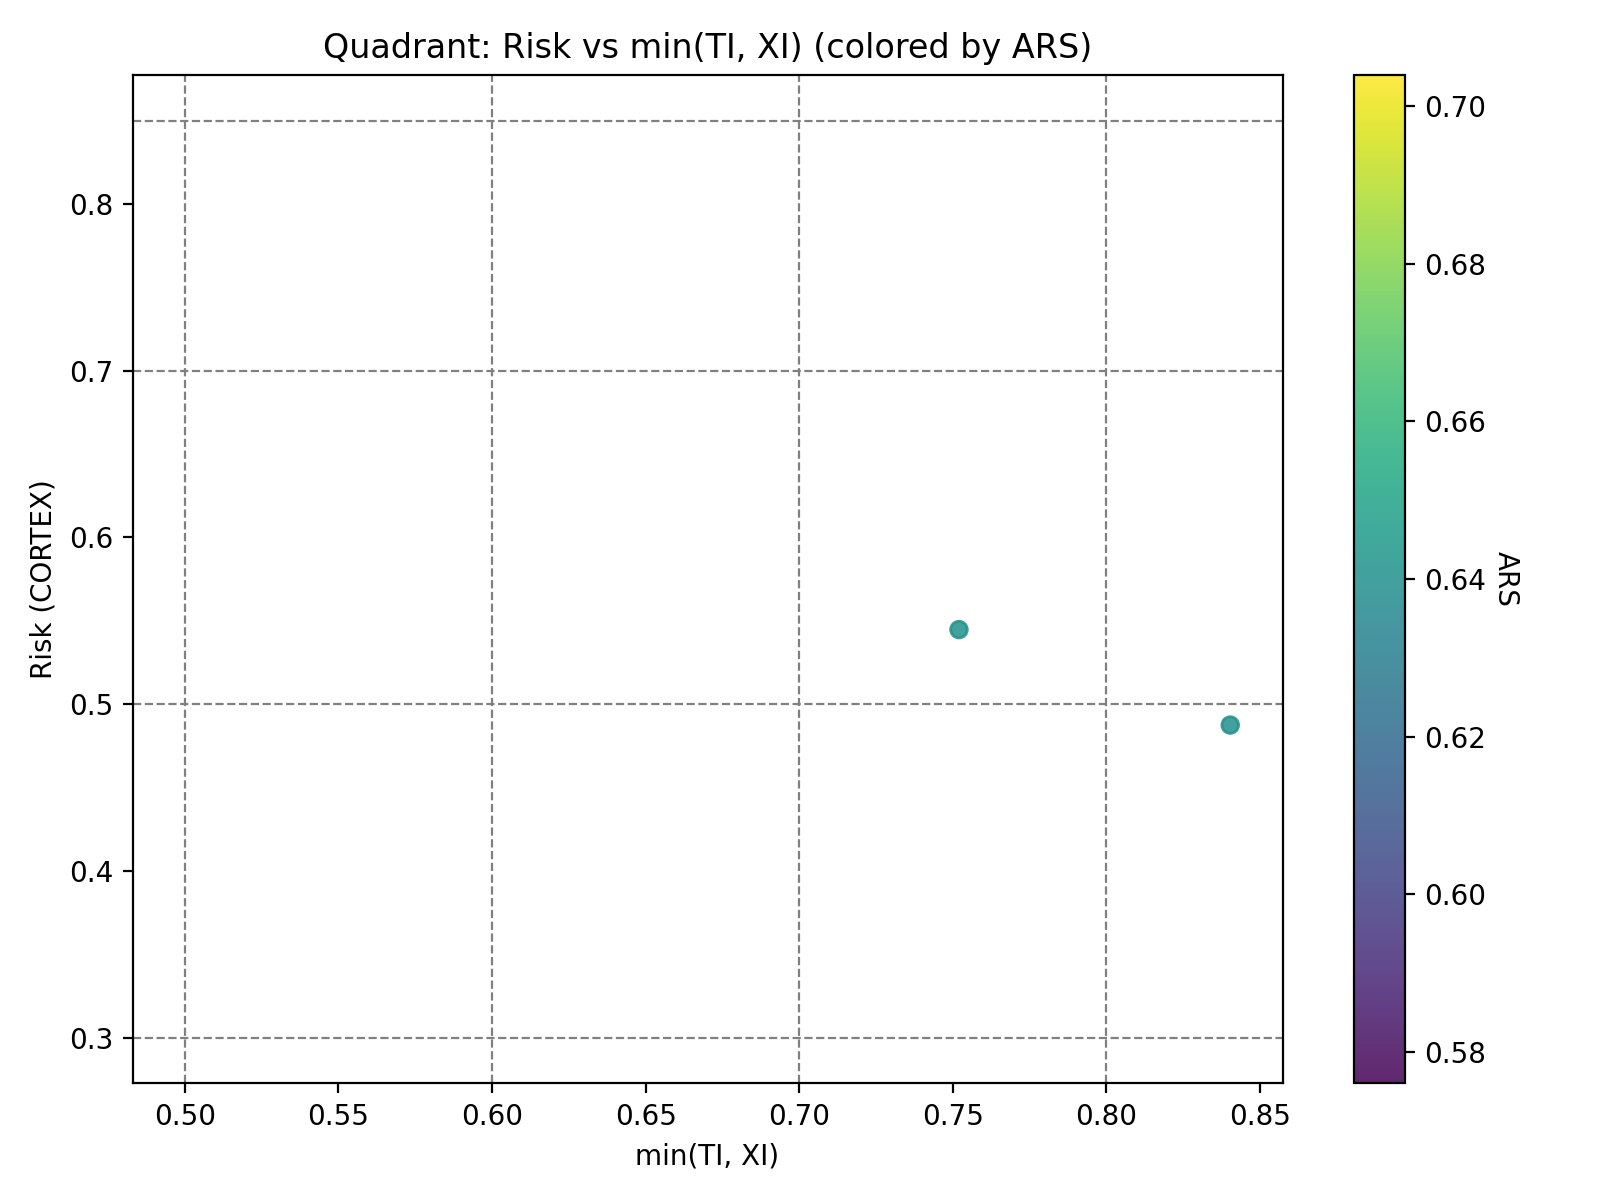
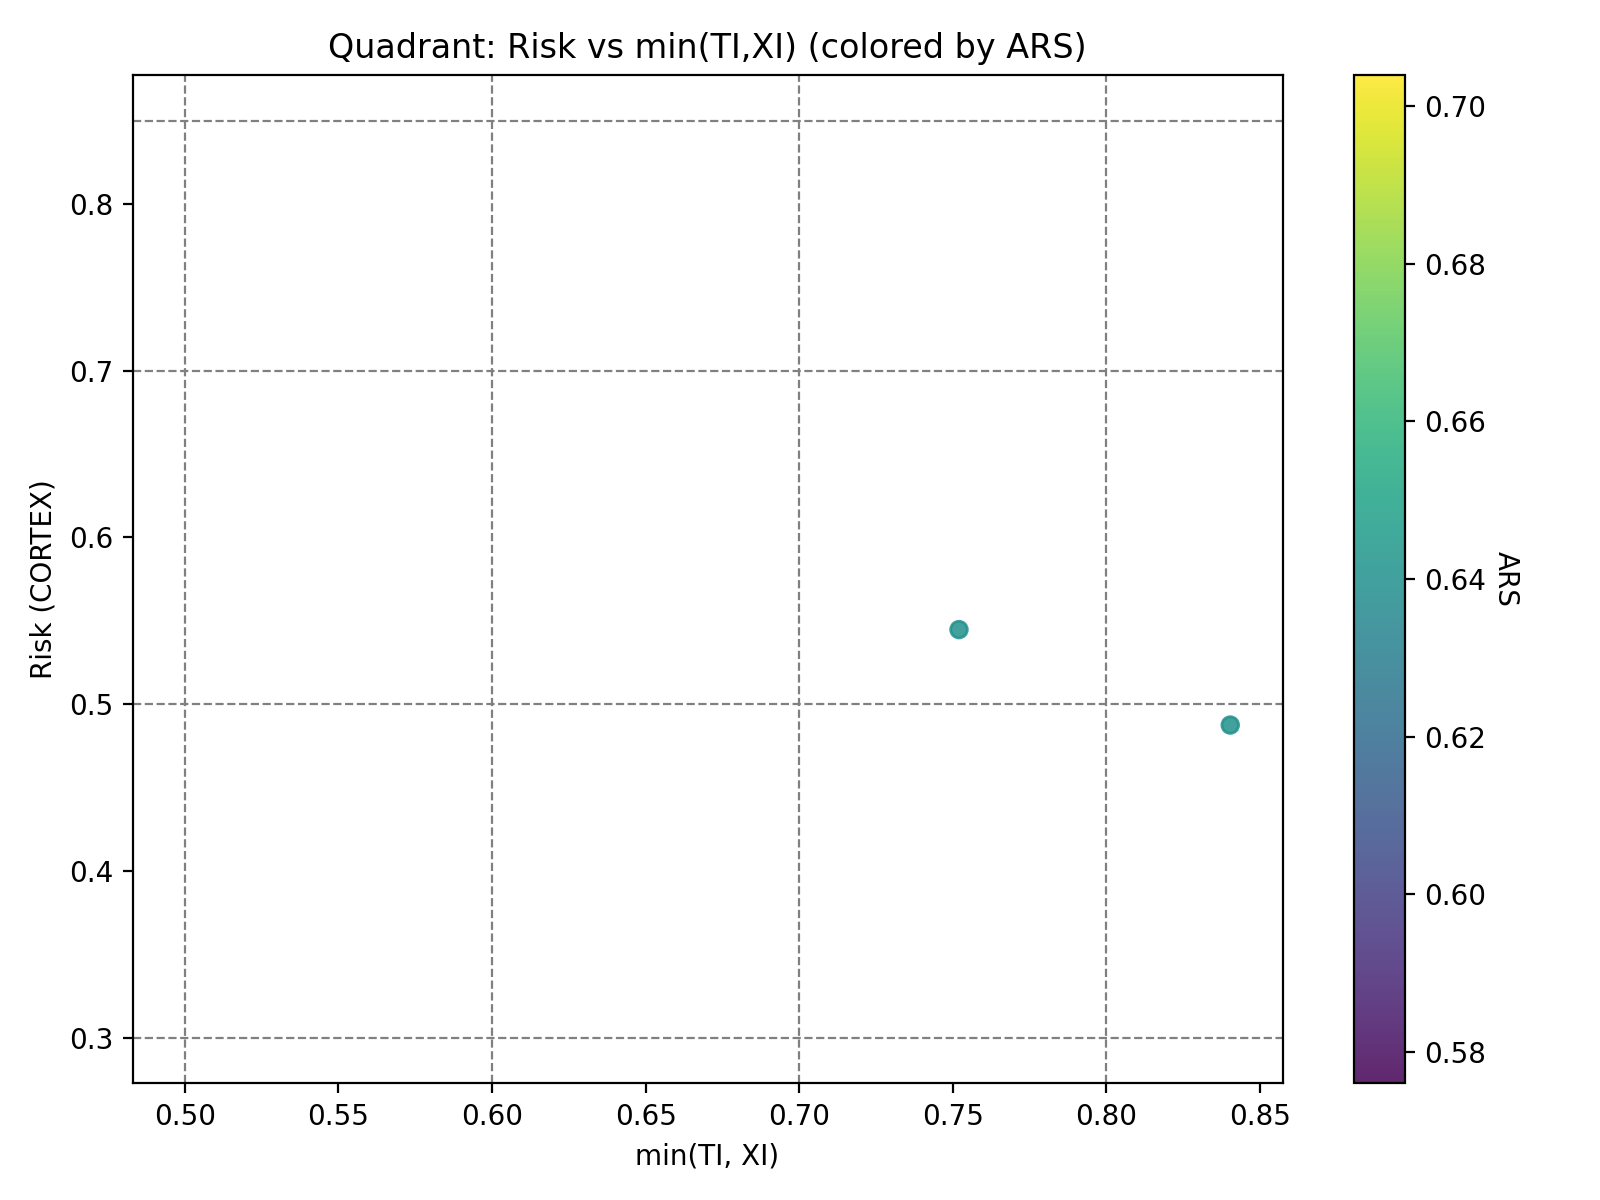
Add generated figures (quadrant, ARS hist, blockers, radar) and figure script

Changed region(s): [[0.1875, 0.0308, 0.6875, 0.0617]]

diff --git a/scripts/gen_figures.py b/scripts/gen_figures.py
@@ -1,126 +1,77 @@
 
-# scripts/gen_figures.py
-# Generate quadrant, ARS histogram, blockers bar, and per-scenario radar PNGs from a summary CSV.
-# Usage:
-#   python scripts/gen_figures.py --csv reports/audit_results/summary_strict.csv --out docs/figures
-
 import os, argparse, pandas as pd, numpy as np
+import matplotlib
+matplotlib.use('Agg')
 import matplotlib.pyplot as plt
 
 def ensure_dir(p): os.makedirs(p, exist_ok=True)
-
-def load_csv(csv_path: str) -> pd.DataFrame:
-    df = pd.read_csv(csv_path)
-    # Ensure required columns exist; fill safe defaults
-    defaults_float = {"TI":0.0, "XI":0.0, "ARS":0.0, "R":0.0}
-    defaults_str   = {"decision":"", "recommendation":"", "policy_blockers":"", "validator_blockers":"", "scenario":""}
-    for k,v in defaults_float.items():
-        if k not in df.columns: df[k] = v
-        df[k] = pd.to_numeric(df[k], errors="coerce").fillna(0.0)
-    for k,v in defaults_str.items():
-        if k not in df.columns: df[k] = v
-        df[k] = df[k].fillna("")
-    # Derived: t_bottleneck = min(TI, XI)
-    df["t_bottleneck"] = np.minimum(df["TI"], df["XI"])
-    # Risk may be absent; if so derive a proxy from ARS and t_bottleneck (not ideal, but keeps figs working)
-    if "risk" not in df.columns:
-        # ARS ≈ sqrt(risk * min(TI,XI))  → risk ≈ (ARS^2)/min(TI,XI)  (clip to [0,1], guard div by zero)
-        tb = df["t_bottleneck"].replace(0, np.nan)
-        risk_est = (df["ARS"]**2) / tb
-        risk_est = risk_est.replace([np.inf, -np.inf], np.nan).fillna(0.0).clip(0,1)
-        df["risk"] = risk_est
+def load_csv(p):
+    df = pd.read_csv(p)
+    for c in ['TI','XI','ARS','R']: 
+        if c not in df: df[c]=0.0
+        df[c] = pd.to_numeric(df[c], errors='coerce').fillna(0.0)
+    for c in ['decision','recommendation','policy_blockers','validator_blockers','scenario','domain']:
+        if c not in df: df[c]=''
+        df[c]=df[c].fillna('')
+    df['t_bottleneck'] = np.minimum(df['TI'], df['XI'])
+    if 'risk' not in df:
+        tb = df['t_bottleneck'].replace(0,np.nan)
+        rk = (df['ARS']**2)/tb
+        df['risk'] = rk.replace([np.inf,-np.inf], np.nan).fillna(0.0).clip(0,1)
     else:
-        df["risk"] = pd.to_numeric(df["risk"], errors="coerce").fillna(0.0).clip(0,1)
-    # Blockers combined for convenience
-    if "policy_blockers" in df.columns and "validator_blockers" in df.columns:
-        df["all_blockers"] = df["policy_blockers"].fillna("").astype(str) + ";" + df["validator_blockers"].fillna("").astype(str)
+        df['risk'] = pd.to_numeric(df['risk'], errors='coerce').fillna(0.0).clip(0,1)
+    if 'policy_blockers' in df and 'validator_blockers' in df:
+        df['all_blockers'] = df['policy_blockers'].astype(str).fillna('') + ';' + df['validator_blockers'].astype(str).fillna('')
     else:
-        df["all_blockers"] = df.get("policy_blockers","").astype(str)
-    # Scenario label fallback
-    if not df["scenario"].any():
-        df["scenario"] = [f"scenario_{i+1}" for i in range(len(df))]
+        df['all_blockers'] = df.get('policy_blockers','').astype(str)
+    if not df['scenario'].any(): df['scenario']=[f'scenario_{i+1}' for i in range(len(df))]
     return df
 
-def fig_quadrant(df: pd.DataFrame, outdir: str):
-    ensure_dir(outdir)
+def quadrant(df,out):
     plt.figure(figsize=(8,6))
-    sc = plt.scatter(df["t_bottleneck"], df["risk"], c=df["ARS"], alpha=0.85)
-    cbar = plt.colorbar(sc); cbar.set_label("ARS", rotation=270, labelpad=12)
-    plt.xlabel("min(TI, XI)")
-    plt.ylabel("Risk (CORTEX)")
-    # Vertical lines for TI/XI thresholds lattice (informative grid)
-    for x in [0.50, 0.60, 0.70, 0.80]: plt.axvline(x, ls="--", lw=0.8, color="gray")
-    # Horizontal lines for CORTEX tiers
-    for y in [0.30, 0.50, 0.70, 0.85]: plt.axhline(y, ls="--", lw=0.8, color="gray")
-    plt.title("Quadrant: Risk vs min(TI, XI) (colored by ARS)")
-    plt.tight_layout()
-    plt.savefig(os.path.join(outdir, "quadrant.png"), dpi=200)
-    plt.close()
+    sc=plt.scatter(df['t_bottleneck'], df['risk'], c=df['ARS'], alpha=0.85)
+    cb=plt.colorbar(sc); cb.set_label('ARS', rotation=270, labelpad=12)
+    plt.xlabel('min(TI, XI)'); plt.ylabel('Risk (CORTEX)')
+    for x in [0.50,0.60,0.70,0.80]: plt.axvline(x, ls='--', lw=0.8, color='gray')
+    for y in [0.30,0.50,0.70,0.85]: plt.axhline(y, ls='--', lw=0.8, color='gray')
+    plt.title('Quadrant: Risk vs min(TI,XI) (colored by ARS)')
+    plt.tight_layout(); plt.savefig(os.path.join(out,'quadrant.png'), dpi=200); plt.close()
 
-def fig_hist_ars(df: pd.DataFrame, outdir: str):
-    ensure_dir(outdir)
+def hist_ars(df,out):
     plt.figure(figsize=(8,4))
-    plt.hist(df["ARS"], bins=20, alpha=0.9)
-    plt.xlabel("ARS")
-    plt.ylabel("Count")
-    plt.title("ARS Distribution")
-    plt.tight_layout()
-    plt.savefig(os.path.join(outdir, "ars_hist.png"), dpi=200)
-    plt.close()
+    plt.hist(df['ARS'], bins=20, alpha=0.9)
+    plt.xlabel('ARS'); plt.ylabel('Count'); plt.title('ARS Distribution')
+    plt.tight_layout(); plt.savefig(os.path.join(out,'ars_hist.png'), dpi=200); plt.close()
 
-def fig_blockers(df: pd.DataFrame, outdir: str, topn: int = 15):
-    ensure_dir(outdir)
-    counts = {}
-    for s in df["all_blockers"].fillna("").tolist():
-        items = [x for x in s.split(";") if x]
-        for it in items:
-            counts[it] = counts.get(it, 0) + 1
-    if not counts:
-        return
-    items = sorted(counts.items(), key=lambda kv: kv[1], reverse=True)[:topn]
-    labels = [k for k,_ in items]; vals = [v for _,v in items]
+def blockers(df,out):
+    counts={}
+    for s in df['all_blockers'].fillna('').tolist():
+        for it in [x for x in s.split(';') if x]: counts[it]=counts.get(it,0)+1
+    if not counts: return
+    items=sorted(counts.items(), key=lambda kv: kv[1], reverse=True)[:15]
+    labels=[k for k,_ in items]; vals=[v for _,v in items]
     plt.figure(figsize=(10,4))
-    plt.bar(labels, vals)
-    plt.xticks(rotation=45, ha="right")
-    plt.ylabel("Count")
-    plt.title("Top Blockers")
-    plt.tight_layout()
-    plt.savefig(os.path.join(outdir, "blockers.png"), dpi=200)
-    plt.close()
+    plt.bar(labels, vals); plt.xticks(rotation=45, ha='right'); plt.ylabel('Count'); plt.title('Top Blockers')
+    plt.tight_layout(); plt.savefig(os.path.join(out,'blockers.png'), dpi=200); plt.close()
 
-def fig_radar(df: pd.DataFrame, outdir: str, topn: int = 6):
-    ensure_dir(outdir)
-    # pick top-N by risk as illustrative
-    sub = df.sort_values("risk", ascending=False).head(topn)
-    for _, row in sub.iterrows():
-        vals = [row["TI"], row["XI"], row["ARS"]]
-        labels = ["TI","XI","ARS"]
-        angles = np.linspace(0, 2*np.pi, len(labels), endpoint=False).tolist()
-        vals += vals[:1]; angles += angles[:1]
-        plt.figure(figsize=(5,5))
-        ax = plt.subplot(111, polar=True)
-        ax.plot(angles, vals, linewidth=2)
-        ax.fill(angles, vals, alpha=0.25)
-        ax.set_xticks(angles[:-1]); ax.set_xticklabels(labels)
-        ax.set_yticklabels([])
-        ttl = str(row.get("scenario","radar")).replace("/","_")[:40]
-        ax.set_title(f"Radar: {ttl}")
-        plt.tight_layout()
-        plt.savefig(os.path.join(outdir, f"radar_{ttl}.png"), dpi=200)
-        plt.close()
+def radar(df,out,topn=6):
+    sub=df.sort_values('risk', ascending=False).head(topn)
+    for _,row in sub.iterrows():
+        vals=[row['TI'],row['XI'],row['ARS']]; labels=['TI','XI','ARS']
+        ang=np.linspace(0,2*np.pi,len(labels),endpoint=False).tolist()
+        vals+=vals[:1]; ang+=ang[:1]
+        plt.figure(figsize=(5,5)); ax=plt.subplot(111, polar=True)
+        ax.plot(ang, vals, linewidth=2); ax.fill(ang, vals, alpha=0.25)
+        ax.set_xticks(ang[:-1]); ax.set_xticklabels(labels); ax.set_yticklabels([])
+        ttl=str(row.get('scenario','radar')).replace('/','_')[:40]; ax.set_title(f'Radar: {ttl}')
+        plt.tight_layout(); plt.savefig(os.path.join(out, f'radar_{ttl}.png'), dpi=200); plt.close()
 
 def main():
-    ap = argparse.ArgumentParser()
-    ap.add_argument("--csv", required=True, help="Path to summary CSV (batch_eval output)")
-    ap.add_argument("--out", required=True, help="Output folder for PNGs")
-    args = ap.parse_args()
-    ensure_dir(args.out)
-    df = load_csv(args.csv)
-    fig_quadrant(df, args.out)
-    fig_hist_ars(df, args.out)
-    fig_blockers(df, args.out)
-    fig_radar(df, args.out, topn=6)
-    print(f"Wrote figures to {args.out}")
-
-if __name__ == "__main__":
-    main()
+    import argparse, os
+    ap=argparse.ArgumentParser()
+    ap.add_argument('--csv', required=True); ap.add_argument('--out', required=True)
+    a=ap.parse_args(); os.makedirs(a.out, exist_ok=True)
+    df=load_csv(a.csv)
+    quadrant(df,a.out); hist_ars(df,a.out); blockers(df,a.out); radar(df,a.out)
+    print('Wrote figures to', a.out)
+if __name__=='__main__': main()
